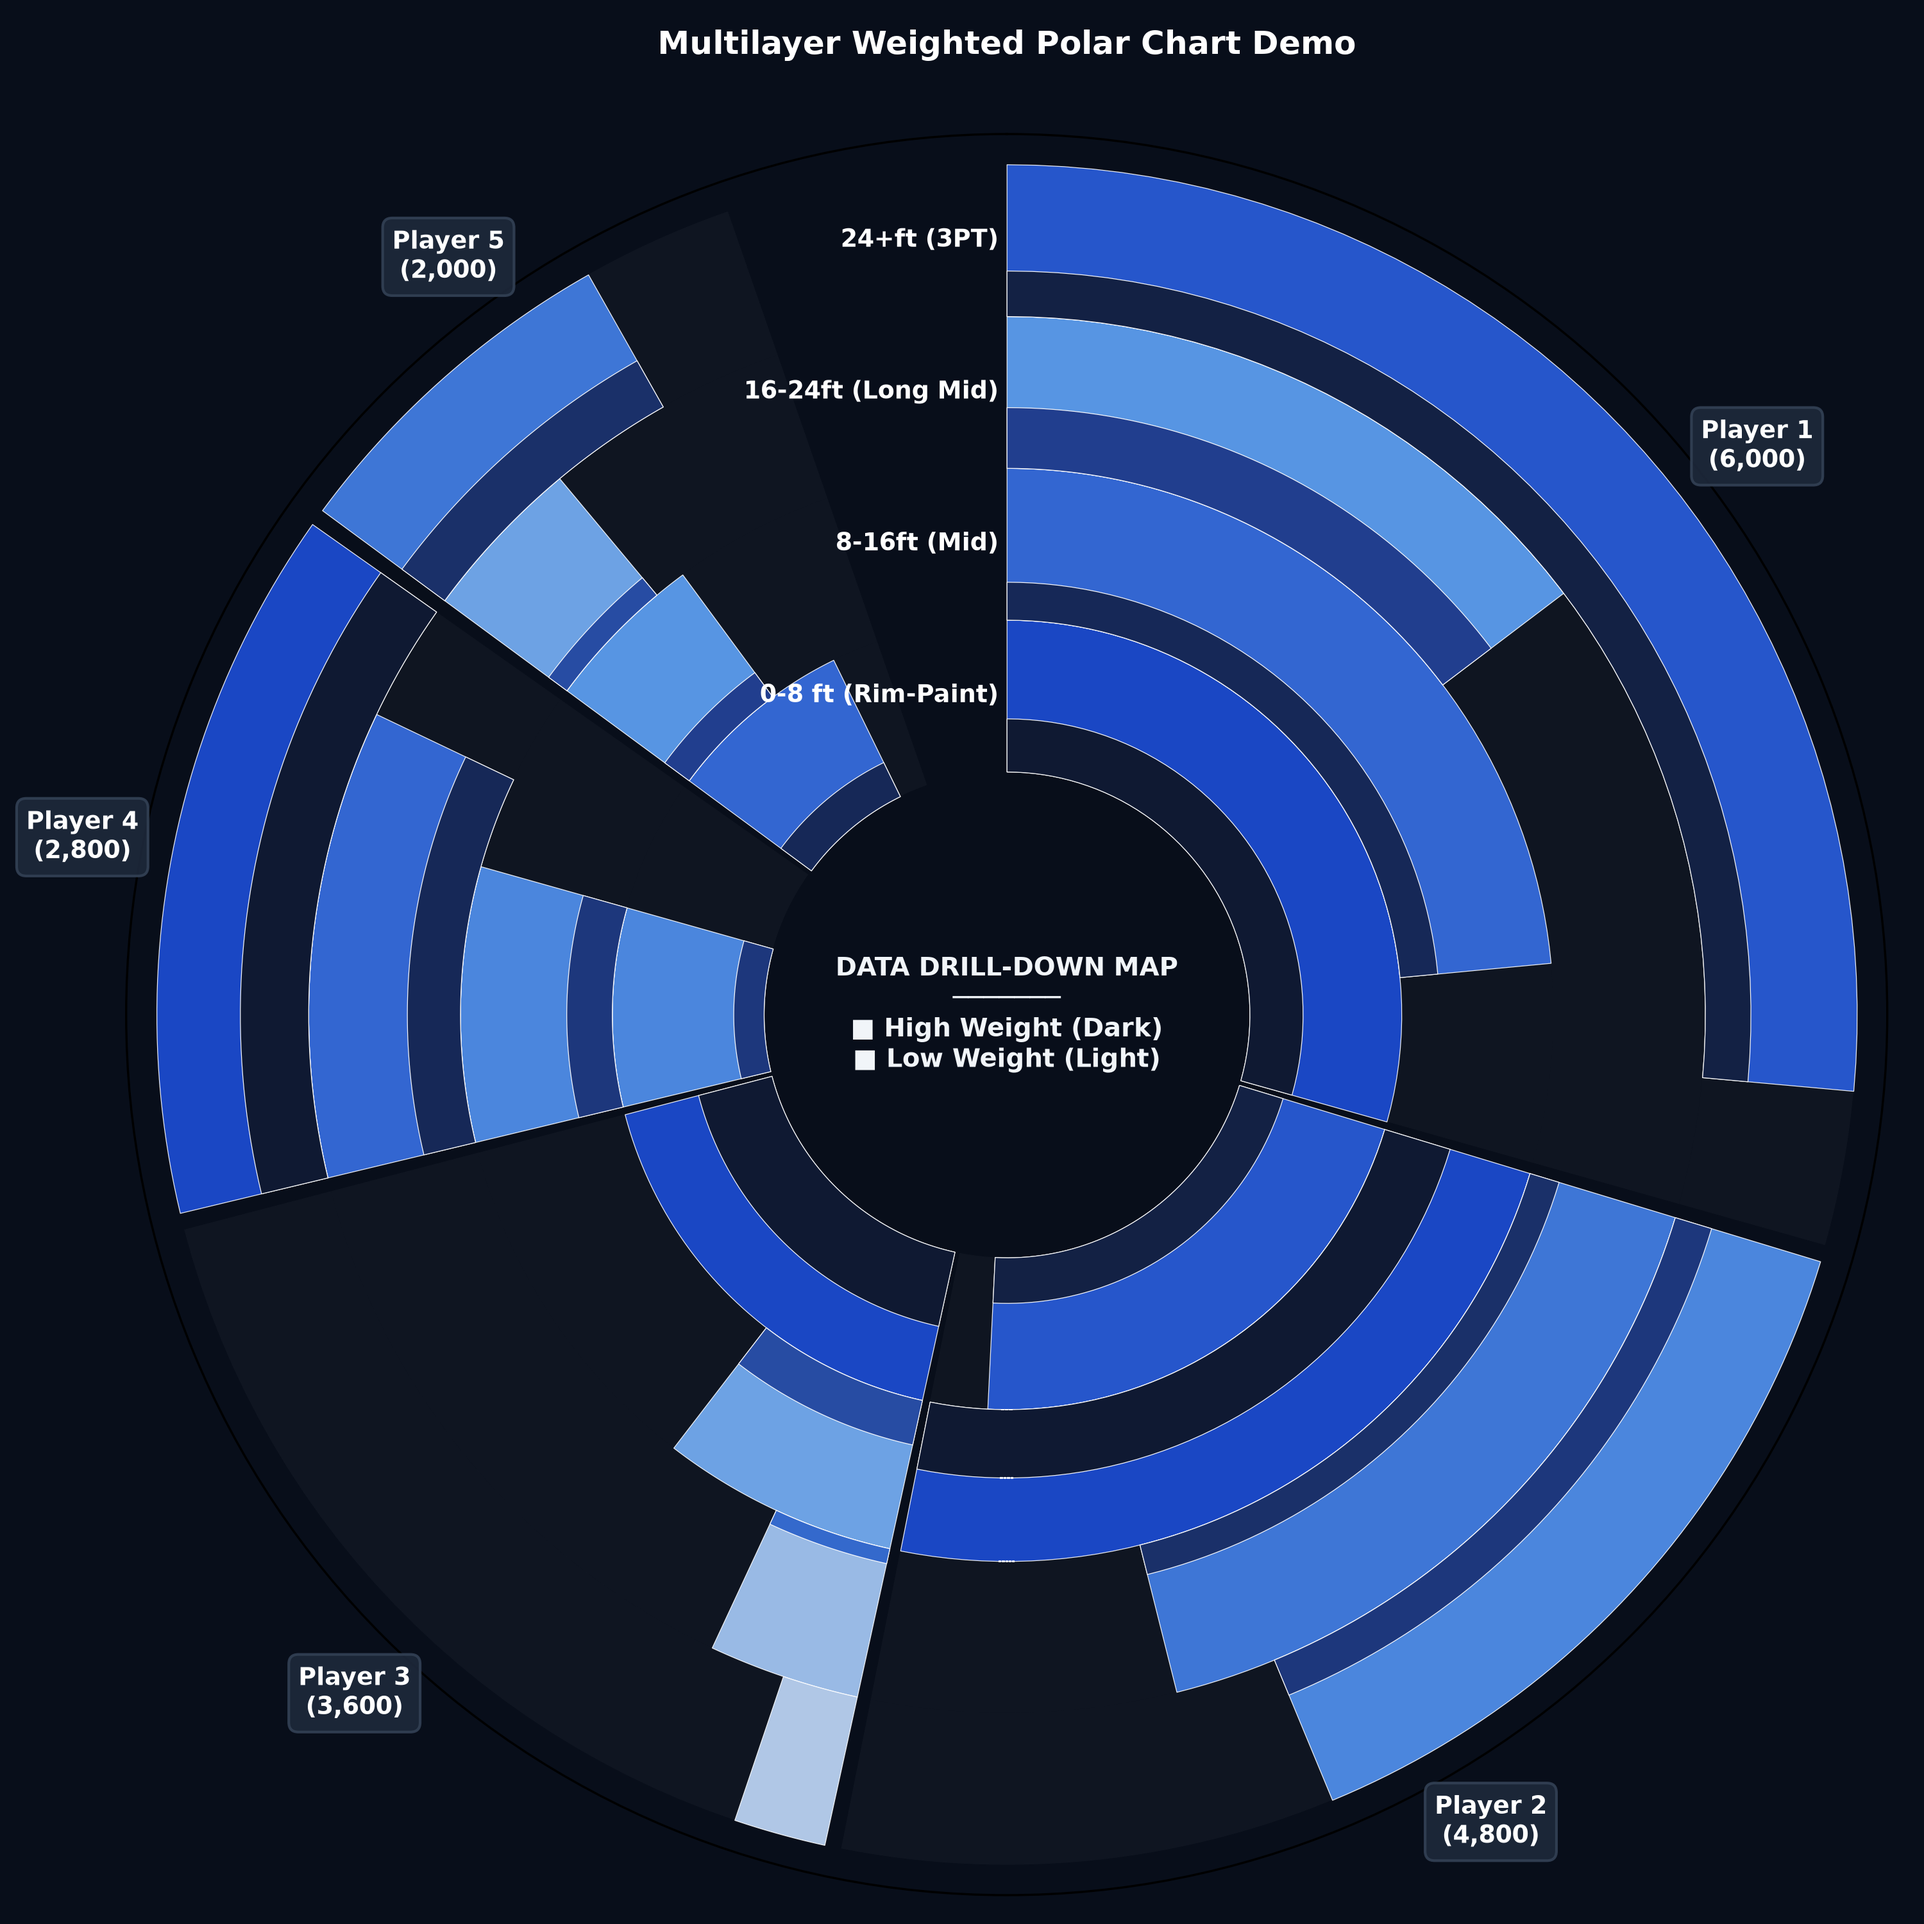
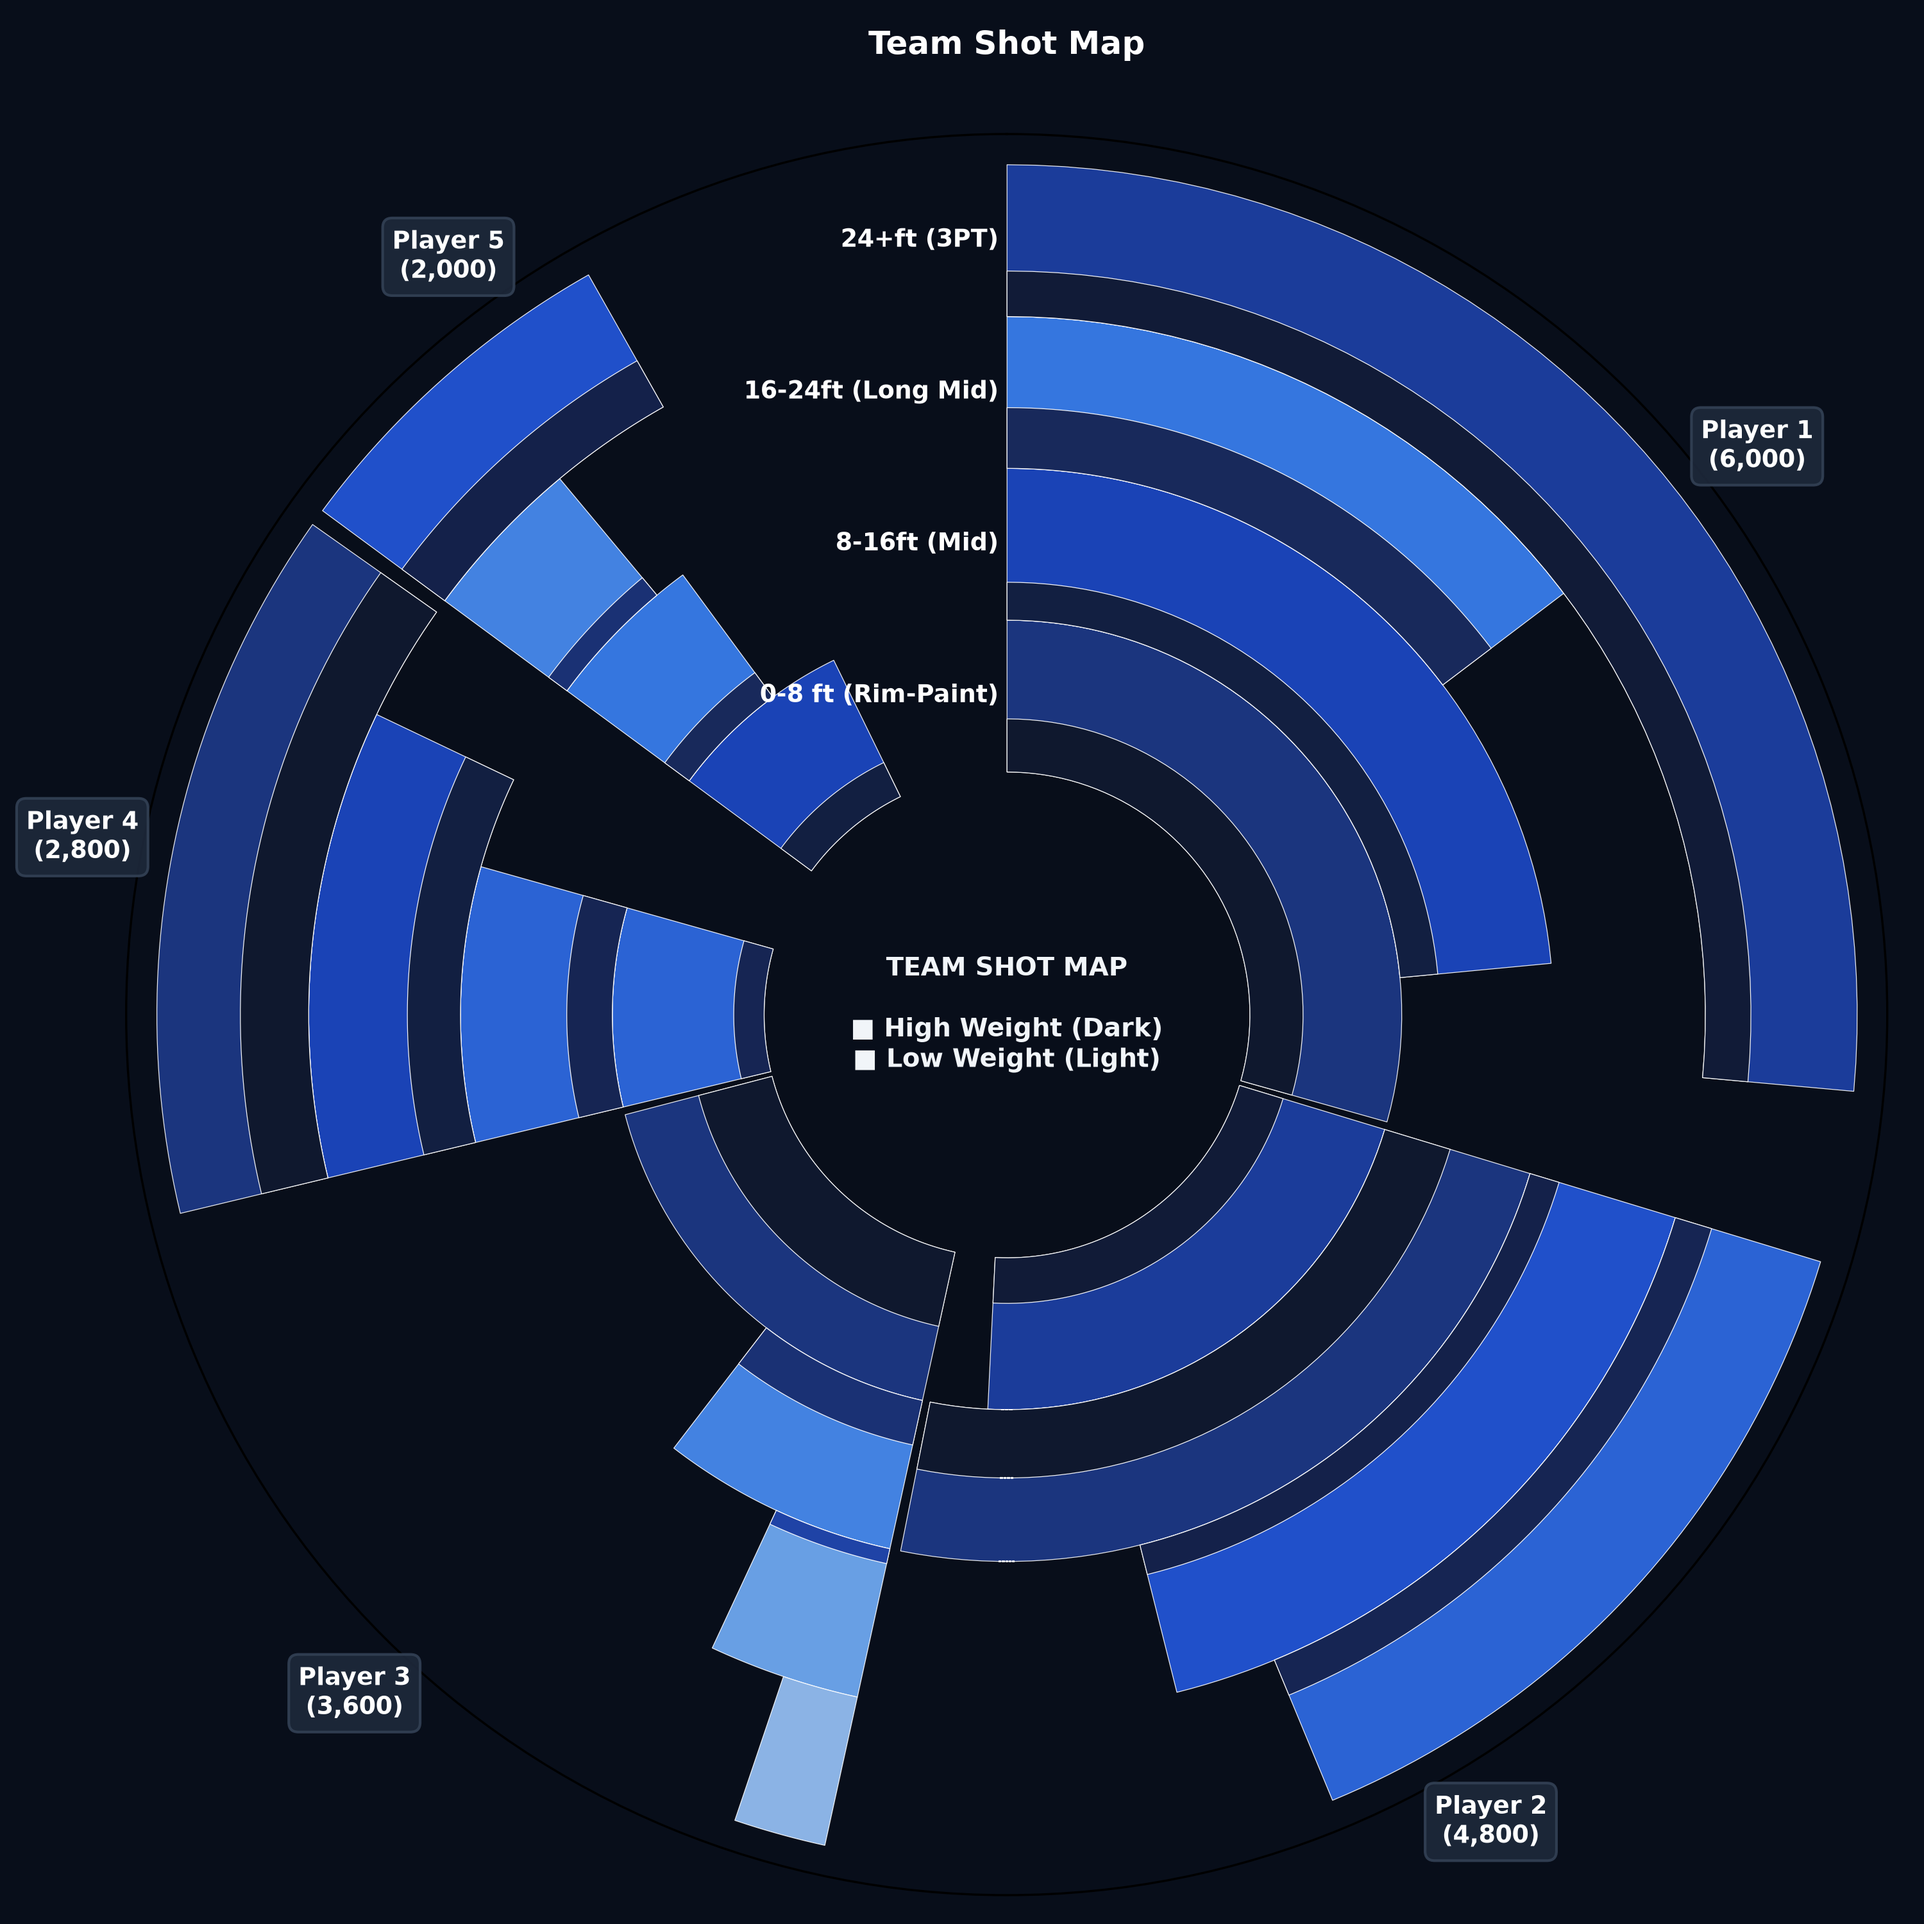
Update chart style to match user reference layout
- multilayer_polar.py: default title/center legend/cmap aligned to
  exact_user_layout.png reference (Team Shot Map theme, richer blue gradient)
- Drop subtle white gap grid; keep unfilled area as dark background
- Regenerate multilayer_polar_demo.png with new defaults
- Add exact_user_layout.png as annotated reference asset
- README.md: Chinese title first, add reference layout section

Changed region(s): [[0.062, 0.062, 0.992, 0.961], [0.341, 0.0, 0.713, 0.031], [0.434, 0.496, 0.62, 0.527]]

diff --git a/multilayer_polar.py b/multilayer_polar.py
@@ -20,10 +20,10 @@ def plot_multilayer_polar_map(
     layer_col: str,
     value_col: str,
     weight_col: str,
-    title: str = "Multilayer Weighted Polar Map",
-    center_legend: str = "DATA DRILL-DOWN MAP\n───────\n■ High Weight (Dark)\n■ Low Weight (Light)",
-    cmap_base_colors: list = ["#dbeafe", "#60a5fa", "#1d4ed8"],
-    cmap_sub_colors: list = ["#3b82f6", "#1e3a8a", "#0f172a"],
+    title: str = "Team Shot Map",
+    center_legend: str = "TEAM SHOT MAP\n\n■ High Weight (Dark)\n■ Low Weight (Light)",
+    cmap_base_colors: list = ["#bfdbfe", "#60a5fa", "#3b82f6", "#1d4ed8", "#1e3a8a"],
+    cmap_sub_colors: list = ["#1d4ed8", "#172554", "#0f172a"],
     gap_ratio: float = 0.05,
     figsize: tuple = (10, 10),
     save_path: str = None
@@ -130,10 +130,7 @@ def plot_multilayer_polar_map(
             group_theta_span = theta_end - theta_start
             theta_draw_end = theta_start + group_theta_span * weight
 
-            # 绘制底层网格阴影 (未覆盖部分)
-            if weight < 1.0:
-                theta_gap_grid = np.linspace(theta_draw_end, theta_end, 30)
-                ax.fill_between(theta_gap_grid, r_inner, r_outer, color='#ffffff', alpha=0.03, edgecolor='none')
+            # 未覆盖部分保持深色背景(与参考图一致,不叠加白色网格)
 
             # 绘制真实数据区域
             theta_active_grid = np.linspace(theta_start, theta_draw_end, 50)
@@ -221,7 +218,7 @@ if __name__ == "__main__":
         layer_col='Zone',
         value_col='TotalShots',
         weight_col='Weight',
-        title="Multilayer Weighted Polar Chart Demo",
+        title="Team Shot Map",
         save_path='multilayer_polar_demo.png'
     )
     plt.show()

diff --git a/README.md b/README.md
@@ -1,4 +1,4 @@
-# 🌟 Multilayer Weighted Polar Chart (多层带权极坐标下沉图)
+# 🌟 多层带权极坐标下沉图 (Multilayer Weighted Polar Chart)
 
 [![Python 3.8+](https://img.shields.io/badge/python-3.8+-blue.svg)](https://www.python.org/downloads/)
 [![License: MIT](https://img.shields.io/badge/License-MIT-yellow.svg)](https://opensource.org/licenses/MIT)
@@ -23,6 +23,14 @@
 ## 📸 效果展示 (Preview)
 
 ![Demo Chart](multilayer_polar_demo.png)
+
+---
+
+## 🎯 参考布局 (Annotated Layout Reference)
+
+以下为「Team Shot Map」主题的对齐示意图,可作为自定义样式与排版的参考:
+
+![Exact User Layout](exact_user_layout.png)
 
 ---
 
